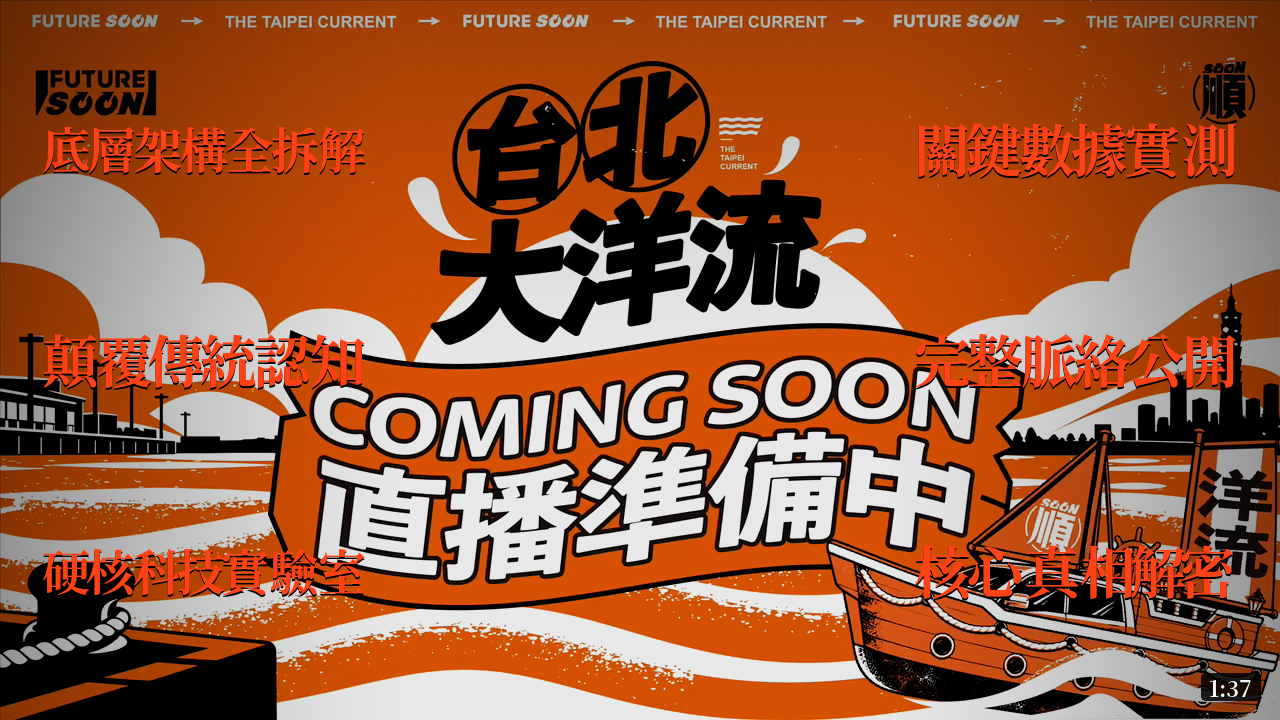
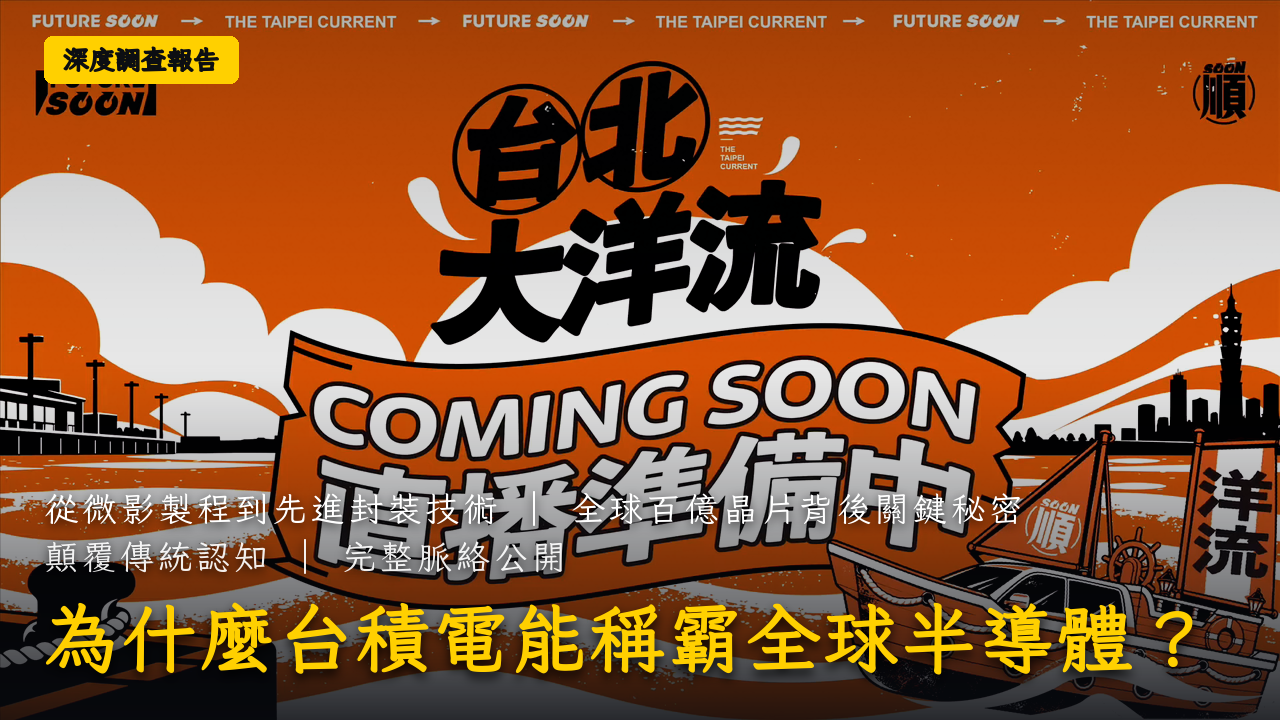
fix(thumbnail): resolve Dr. Beauty 3D 500 crash and Cinema Impact text cutoff
- Fix HTTP 500 error during Dr. Beauty 3D template synthesis caused by a NameError on undefined 'rim' layer when rendering circular avatar outline
- Add boundary fit checks in Dr. Beauty 3D title generator to prevent slanted 3D title text from clipping after rotation
- Redesign Cinema Impact layout with responsive font sizing and horizontal auto-shrink measurement to prevent long titles and subtitles from clipping beyond 1280px width
- Anchor Cinema Impact text block to a safe bottom boundary (678px) to eliminate vertical descender and drop-shadow cutoff
- Add multi-line title support and subtitle line splitting for long text pairs
- Add regression tests covering sample and project thumbnail rendering for both templates

diff --git a/generators/thumbnail_generator.py b/generators/thumbnail_generator.py
@@ -629,6 +629,10 @@ def _draw_tracked_text(
         total_char_w = sum(char_widths)
         tracking = int((avail_w - total_char_w) / (len(chars) - 1))
         tracking = max(-18, min(90, tracking))
+    elif not fit_full_width and len(chars) > 1 and tracking > -8:
+        total_char_w = sum(char_widths)
+        if total_char_w + tracking * (len(chars) - 1) > avail_w:
+            tracking = max(-8, int((avail_w - total_char_w) / (len(chars) - 1)))
 
     total_w = sum(char_widths) + tracking * max(0, len(chars) - 1)
     if align == "center":
@@ -877,6 +881,10 @@ def _render_cinema_impact(
 ) -> None:
     """Render Template 2: 'cinema_impact' (台灣知識型百萬YTR大字風)."""
     primary_rgba = _hex_to_rgba(config.get("primary_color", "#FFE600"), 255)
+    font_family = config.get("font_family")
+    font_weight = config.get("font_weight", "bold")
+    title_scale = float(config.get("title_scale", 1.0))
+
     top_kicker = (config.get("top_kicker") if config.get("top_kicker") is not None else "深度調查報告").strip()
     main_title = (config.get("main_title") if config.get("main_title") is not None else "真相大公開").strip()
     left_line1 = (config.get("left_line1") or "").strip()
@@ -884,104 +892,221 @@ def _render_cinema_impact(
     left_line2 = (config.get("left_line2") or "").strip()
     right_line2 = (config.get("right_line2") or "").strip()
 
-    line1 = " ｜ ".join(x for x in [left_line1, right_line1] if x)
-    line2 = " ｜ ".join(x for x in [left_line2, right_line2] if x)
-    has_any_text = bool(top_kicker or main_title or line1 or line2)
+    # Layout bounds: 1280 x 720 HD screen
+    margin_x = 44
+    avail_w = THUMB_W - margin_x * 2  # 1192px safe width
+    safe_bottom = THUMB_H - 42        # 678px safe bottom (above YouTube timestamp badge)
 
-    # Bottom gradient bar for heavy readability (only when text is present)
+    # Resolve subtitle lines
+    sub_lines: list[str] = []
+    if left_line1 and right_line1 and not left_line2 and not right_line2 and (len(left_line1) + len(right_line1) > 16):
+        # Long single pair: split into 2 lines for much better readability
+        sub_lines = [left_line1, right_line1]
+    else:
+        l1 = " ｜ ".join(x for x in [left_line1, right_line1] if x)
+        l2 = " ｜ ".join(x for x in [left_line2, right_line2] if x)
+        if l1:
+            sub_lines.append(l1)
+        if l2:
+            sub_lines.append(l2)
+
+    has_any_text = bool(top_kicker or main_title or sub_lines)
+
+    # 1. Main Title sizing & wrapping
+    dummy = Image.new("RGBA", (10, 10))
+    d_draw = ImageDraw.Draw(dummy)
+
+    title_lines = [l.strip() for l in main_title.splitlines() if l.strip()] if main_title else []
+    if not title_lines and main_title:
+        title_lines = [main_title]
+
+    if title_lines:
+        max_chars = max(len(l) for l in title_lines)
+        if len(title_lines) == 1:
+            if max_chars <= 4:
+                base_sz = 160
+            elif max_chars <= 6:
+                base_sz = 142
+            elif max_chars <= 8:
+                base_sz = 125
+            elif max_chars <= 10:
+                base_sz = 110
+            else:
+                base_sz = max(65, int(1120 / max_chars))
+        else:
+            base_sz = max(60, min(120, int(980 / max_chars)))
+
+        sz = int(round(base_sz * title_scale))
+        tracking = 6 if sz >= 120 else (4 if sz >= 90 else 2)
+
+        # Horizontally fit every line with auto-shrink
+        while sz > 45:
+            t_font = _find_zh_font(sz, weight=font_weight, font_family=font_family)
+            fits = True
+            for tl in title_lines:
+                chars = list(tl)
+                lw = sum(d_draw.textbbox((0, 0), ch, font=t_font)[2] - d_draw.textbbox((0, 0), ch, font=t_font)[0] for ch in chars) + tracking * max(0, len(chars) - 1)
+                if lw > avail_w:
+                    fits = False
+                    break
+            if fits:
+                break
+            sz -= 3
+
+        title_font = _find_zh_font(sz, weight=font_weight, font_family=font_family)
+        line_heights = []
+        for tl in title_lines:
+            bb = d_draw.textbbox((0, 0), tl, font=title_font)
+            line_heights.append(bb[3] - bb[1])
+        line_spacing = int(sz * 0.18)
+        total_title_h = sum(line_heights) + line_spacing * (len(title_lines) - 1)
+
+        # Vertical anchor for main title
+        if not sub_lines:
+            title_start_y = min(500, safe_bottom - total_title_h - 25)
+        else:
+            title_start_y = safe_bottom - total_title_h - 12
+    else:
+        title_font = None
+        sz = 0
+        tracking = 0
+        total_title_h = 0
+        line_heights = []
+        line_spacing = 0
+        title_start_y = safe_bottom
+
+    # 2. Subtitle sizing & positioning
+    sub_font = None
+    sub_line_height = 0
+    if sub_lines:
+        sub_sz = 34 if len(sub_lines) >= 2 else 38
+        while sub_sz > 22:
+            s_font = _find_zh_bold_font(sub_sz, font_family=font_family)
+            fits = True
+            for sl in sub_lines:
+                s_chars = list(sl)
+                sw = sum(d_draw.textbbox((0, 0), ch, font=s_font)[2] - d_draw.textbbox((0, 0), ch, font=s_font)[0] for ch in s_chars) + 4 * max(0, len(s_chars) - 1)
+                if sw > avail_w:
+                    fits = False
+                    break
+            if fits:
+                sub_font = s_font
+                break
+            sub_sz -= 2
+        if sub_font is None:
+            sub_font = _find_zh_bold_font(22, font_family=font_family)
+        s_bb = d_draw.textbbox((0, 0), "測試Ay", font=sub_font)
+        sub_line_height = s_bb[3] - s_bb[1]
+
+    # Calculate subtitle Y positions above main title
+    sub_y_positions = []
+    if sub_lines:
+        gap_to_title = 24
+        cur_y = title_start_y - gap_to_title - sub_line_height
+        if len(sub_lines) == 1:
+            sub_y_positions = [cur_y]
+        elif len(sub_lines) == 2:
+            gap_between = 14
+            sub_y_positions = [cur_y - gap_between - sub_line_height, cur_y]
+
+    # 3. Dynamic atmospheric gradient bar for heavy readability
     if has_any_text:
+        top_text_y = sub_y_positions[0] if sub_y_positions else (title_start_y if title_lines else THUMB_H // 2)
+        grad_start = max(180, min(THUMB_H // 2, top_text_y - 65))
         grad = Image.new("RGBA", canvas.size, (0, 0, 0, 0))
         g_draw = ImageDraw.Draw(grad)
-        for y in range(THUMB_H // 2, THUMB_H):
-            alpha = int(215 * ((y - THUMB_H // 2) / (THUMB_H // 2)) ** 1.3)
+        for y in range(grad_start, THUMB_H):
+            ratio = (y - grad_start) / (THUMB_H - grad_start)
+            alpha = int(220 * (ratio ** 1.25))
             g_draw.line([(0, y), (THUMB_W, y)], fill=(8, 10, 15, alpha))
         canvas.alpha_composite(grad)
 
-    # Top-left pill badge
+    # 4. Top-left Pill Badge (centered & auto-fitted)
     if top_kicker:
-        font_family = config.get("font_family")
-        k_font = _find_zh_bold_font(34, font_family=font_family)
+        k_sz = 26
+        k_font = _find_zh_bold_font(k_sz, font_family=font_family)
+        while k_sz > 18:
+            k_font = _find_zh_bold_font(k_sz, font_family=font_family)
+            k_bb = d_draw.textbbox((0, 0), top_kicker, font=k_font, stroke_width=1)
+            kw = k_bb[2] - k_bb[0]
+            if kw + 44 <= avail_w:
+                break
+            k_sz -= 2
+
+        k_bb = d_draw.textbbox((0, 0), top_kicker, font=k_font, stroke_width=1)
+        kw = k_bb[2] - k_bb[0]
+        kh = k_bb[3] - k_bb[1]
+        pw = kw + 36
+        ph = kh + 20
+        px = margin_x
+        py = 36
+
         pill = Image.new("RGBA", canvas.size, (0, 0, 0, 0))
         p_draw = ImageDraw.Draw(pill)
-        bbox = p_draw.textbbox((0, 0), top_kicker, font=k_font, stroke_width=1)
-        pw = (bbox[2] - bbox[0]) + 44
-        ph = (bbox[3] - bbox[1]) + 26
-        p_draw.rounded_rectangle([42, 38, 42 + pw, 38 + ph], radius=10, fill=primary_rgba)
-        p_draw.text((64, 46), top_kicker, font=k_font, fill=(12, 14, 18, 255), stroke_width=1, stroke_fill=(12, 14, 18, 255))
+        p_draw.rounded_rectangle([px, py, px + pw, py + ph], radius=8, fill=primary_rgba)
+        tx = px + (pw - kw) // 2 - k_bb[0]
+        ty = py + (ph - kh) // 2 - k_bb[1]
+        p_draw.text((tx, ty), top_kicker, font=k_font, fill=(12, 14, 18, 255), stroke_width=1, stroke_fill=(12, 14, 18, 255))
         canvas.alpha_composite(pill)
 
-    # Subtitle line(s) above main title (Supports 3A/4A Line 1 and 3B/4B Line 2)
-    line1 = " ｜ ".join(x for x in [left_line1, right_line1] if x)
-    line2 = " ｜ ".join(x for x in [left_line2, right_line2] if x)
-    if line1 and line2:
-        s_font = _find_zh_bold_font(36, font_family=font_family)
+    # 5. Draw Subtitles
+    for i, s_line in enumerate(sub_lines):
+        sy = sub_y_positions[i]
+        alpha = 255 if i == 0 else 235
         _draw_tracked_text(
             canvas,
-            line1,
-            y=375,
-            font=s_font,
-            fill_rgba=(255, 255, 255, 255),
+            s_line,
+            y=sy,
+            font=sub_font,
+            fill_rgba=(255, 255, 255, alpha),
             align="left",
-            x_left=44,
-            x_right=THUMB_W - 44,
+            x_left=margin_x,
+            x_right=margin_x + avail_w,
             tracking=4,
             stroke_width=0,
             shadow_alpha=220,
             shadow_offset=(0, 3),
-        )
-        _draw_tracked_text(
-            canvas,
-            line2,
-            y=425,
-            font=s_font,
-            fill_rgba=(255, 255, 255, 235),
-            align="left",
-            x_left=44,
-            x_right=THUMB_W - 44,
-            tracking=4,
-            stroke_width=0,
-            shadow_alpha=220,
-            shadow_offset=(0, 3),
-        )
-    elif line1 or line2:
-        s_font = _find_zh_bold_font(44)
-        _draw_tracked_text(
-            canvas,
-            line1 or line2,
-            y=415,
-            font=s_font,
-            fill_rgba=(255, 255, 255, 255),
-            align="left",
-            x_left=44,
-            x_right=THUMB_W - 44,
-            tracking=4,
-            stroke_width=0,
-            shadow_alpha=220,
-            shadow_offset=(0, 4),
         )
 
-    # Giant bottom headline
-    if main_title:
-        n_chars = max(1, len(main_title))
-        title_scale = float(config.get("title_scale", 1.0))
-        sz = min(220, max(110, int(round((1080 / max(4, n_chars)) * title_scale))))
-        font_weight = config.get("font_weight", "bold")
-        t_font = _find_zh_font(sz, weight=font_weight, font_family=font_family)
+    # 6. Draw Giant Bottom Headline
+    if title_lines:
         stroke_w = 1 if font_weight == "heavy" else 0
-        _draw_tracked_text(
-            canvas,
-            main_title,
-            y=485,
-            font=t_font,
-            fill_rgba=primary_rgba,
-            align="left",
-            x_left=40,
-            x_right=THUMB_W - 40,
-            tracking=8,
-            stroke_width=stroke_w,
-            shadow_alpha=230,
-            shadow_offset=(0, 6),
-        )
+        cur_ty = title_start_y
+        for i, tl in enumerate(title_lines):
+            _draw_tracked_text(
+                canvas,
+                tl,
+                y=cur_ty,
+                font=title_font,
+                fill_rgba=primary_rgba,
+                align="left",
+                x_left=margin_x,
+                x_right=margin_x + avail_w,
+                tracking=tracking,
+                stroke_width=stroke_w,
+                shadow_alpha=230,
+                shadow_offset=(0, 6),
+            )
+            cur_ty += line_heights[i] + line_spacing
+
+    # 7. Optional Corner Badge
+    badge_text = (config.get("duration_badge") or "").strip()
+    if badge_text:
+        b_font = _find_zh_bold_font(30, font_family=font_family)
+        b_bb = d_draw.textbbox((0, 0), badge_text, font=b_font)
+        bw = (b_bb[2] - b_bb[0]) + 32
+        bh = (b_bb[3] - b_bb[1]) + 20
+        bx = THUMB_W - bw - margin_x
+        by = safe_bottom - bh
+        b_layer = Image.new("RGBA", canvas.size, (0, 0, 0, 0))
+        bl_draw = ImageDraw.Draw(b_layer)
+        bl_draw.rounded_rectangle([bx, by, bx + bw, by + bh], radius=8, fill=(15, 18, 20, 220))
+        bl_draw.text((bx + 16, by + 10), badge_text, font=b_font, fill=(255, 255, 255, 255))
+        canvas.alpha_composite(b_layer)
+
+    # 8. Optional Subject Depth Overlap
+    if config.get("subject_overlap", False) and main_title:
+        _apply_subject_depth_overlap(canvas, bg_processed, strength=float(config.get("overlap_strength", 0.75)))
 
 
 def _render_minimal_poster(
@@ -1263,6 +1388,14 @@ def _render_hiphop_mv_3d(
     title_scale = float(config.get("title_scale", 1.0))
     title_sz = int(round(title_sz * title_scale))
 
+    # Auto-fit title_sz if main_title is long to avoid rotating off-screen
+    while title_sz > 55:
+        test_font = _find_zh_font(title_sz, weight="heavy" if font_weight in ("heavy", "bold") else font_weight, font_family=font_family)
+        tb = t_draw.textbbox((0, 0), main_title, font=test_font, stroke_width=4)
+        if (tb[2] - tb[0]) <= 1120:
+            break
+        title_sz -= 4
+
     title_font = _find_zh_font(title_sz, weight="heavy" if font_weight in ("heavy", "bold") else font_weight, font_family=font_family)
     kicker_font = _find_zh_font(int(round(title_sz * 0.26)), weight="bold", font_family=font_family)
     sub_lg_font = _find_zh_font(int(round(title_sz * 0.36)), weight="bold", font_family=font_family)
@@ -1411,7 +1544,7 @@ def _render_hiphop_mv_3d(
         avatar_path = None
         if config.get("avatar_path") and Path(config["avatar_path"]).exists():
             avatar_path = Path(config["avatar_path"])
-        elif project:
+        elif project and hasattr(project, "settings"):
             def_av = project.settings.get("default_avatar") or "Mini_V3"
             candidate = ROOT / "data" / "avatars" / def_av / "portrait.png"
             if candidate.exists():
@@ -1449,7 +1582,14 @@ def _render_hiphop_mv_3d(
             av_box.paste(av_img, (BADGE_CX - BADGE_RADIUS, BADGE_CY - BADGE_RADIUS), mask)
             canvas.alpha_composite(av_box)
 
-            rim.alpha_composite(rim)
+            rim = Image.new("RGBA", (THUMB_W, THUMB_H), (0, 0, 0, 0))
+            r_draw = ImageDraw.Draw(rim)
+            r_draw.ellipse(
+                [BADGE_CX - BADGE_RADIUS, BADGE_CY - BADGE_RADIUS, BADGE_CX + BADGE_RADIUS, BADGE_CY + BADGE_RADIUS],
+                outline=primary_color,
+                width=5,
+            )
+            canvas.alpha_composite(rim)
 
 
 def _render_cinematic_cast(

diff --git a/tests/test_thumbnail_templates.py b/tests/test_thumbnail_templates.py
@@ -1,0 +1,34 @@
+import pytest
+from core.project_manager import Project
+from generators.thumbnail_generator import render_project_thumbnail, render_sample_thumbnail
+
+def test_hiphop_mv_3d_render_sample():
+    """Test Template 4 (Dr. Beauty 3D) sample rendering without 500 error."""
+    res = render_sample_thumbnail({"template": "hiphop_mv_3d", "main_title": "嘻哈MV大卡司"})
+    assert res["status"] == "ok"
+    assert "default_thumbnail_preview.png" in res["thumbnail_path"]
+
+def test_cinema_impact_render_sample():
+    """Test Template 2 (Cinema Impact) with long titles and subtitles ensuring no cutoff."""
+    res = render_sample_thumbnail({
+        "template": "cinema_impact",
+        "top_kicker": "深度調查報告",
+        "main_title": "為什麼台積電能稱霸全球半導體？",
+        "left_line1": "從微影製程到先進封裝技術",
+        "right_line1": "全球百億晶片背後關鍵秘密",
+    })
+    assert res["status"] == "ok"
+    assert "default_thumbnail_preview.png" in res["thumbnail_path"]
+
+def test_project_thumbnail_rendering():
+    """Test project thumbnail rendering for both templates."""
+    try:
+        p = Project("bluetooth_7_0_high_data")
+    except Exception:
+        pytest.skip("Test project not found")
+
+    res1 = render_project_thumbnail(p, options={"template": "hiphop_mv_3d", "main_title": "藍牙 7.0 HDT"})
+    assert res1["status"] == "ok"
+
+    res2 = render_project_thumbnail(p, options={"template": "cinema_impact", "main_title": "真相大公開：藍牙高頻寬突破"})
+    assert res2["status"] == "ok"
